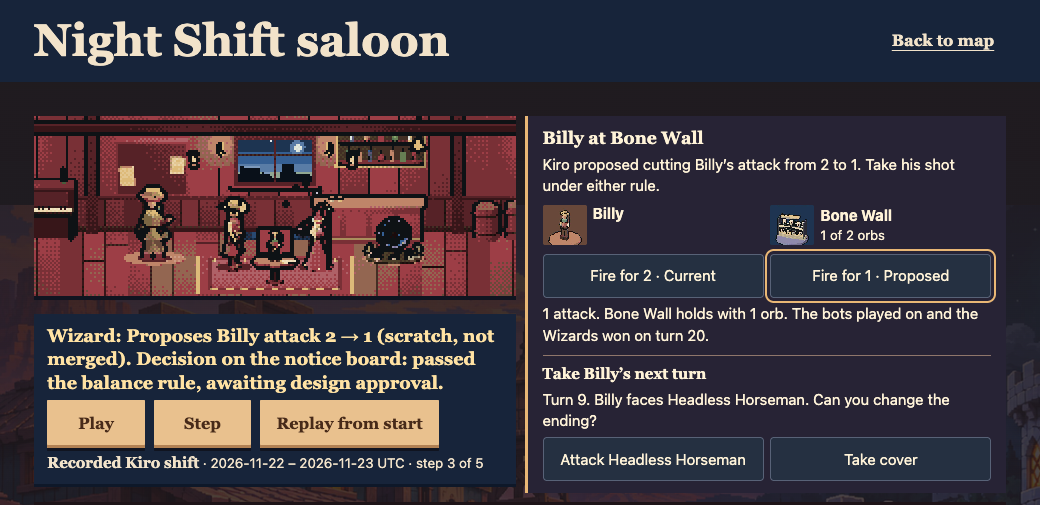
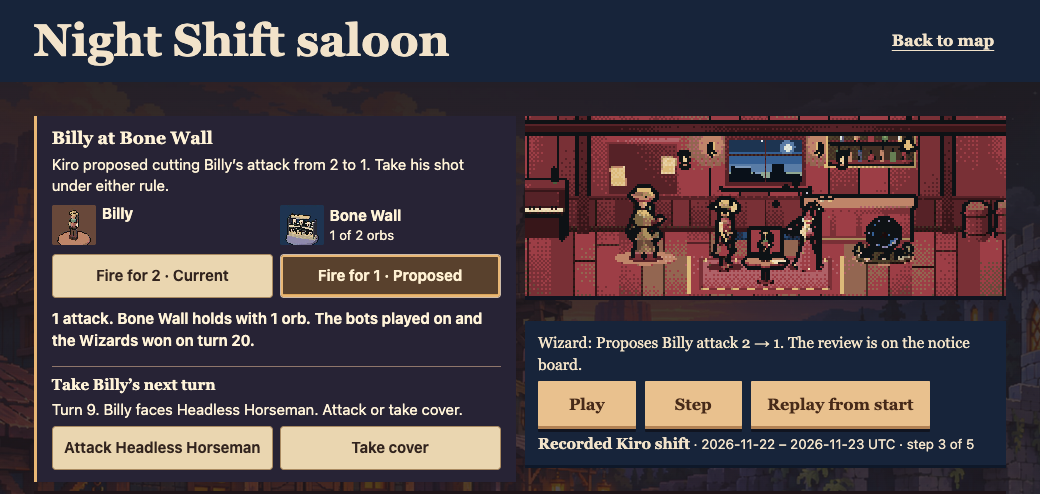
Put the playable table first in the Night Shift Saloon (#227)
* Put Billy’s playable table first in the Night Shift Saloon

* Use the shared Enter key helper for the audit disclosure

diff --git a/src/ui/showdown-3d/night-shift-saloon.js b/src/ui/showdown-3d/night-shift-saloon.js
@@ -77,7 +77,7 @@ export function deed(event) {
   switch (event.kind) {
     case "job": return "Hands out a job";
     case "block": return BLOCK_REASONS[event.rule] ?? "Refuses an unknown request";
-    case "cast": return `Proposes ${cardName(event.card)} ${event.field} ${event.before} → ${event.after} (scratch, not merged)`;
+    case "cast": return `Proposes ${cardName(event.card)} ${event.field} ${event.before} → ${event.after}`;
     case "wanted": return `Posts Wanted: ${wantedPoster(event.boss).name}`;
     case "bell": return "Rings the bell: the stop passed its checks";
     default: return "";
@@ -288,7 +288,7 @@ export function proposalDecision(proposal, {seat = SEAT_AUDIT, protocol = SEAT_P
   return {
     change: `${name} ${field} ${from} → ${to}`,
     status: `Passed the written balance rule and awaits design approval. ${name} has ${at(live)} in this build.`,
-    announce: "Decision on the notice board: passed the balance rule, awaiting design approval.",
+    announce: "The review is on the notice board.",
     rules: [
       `NSB-1, each faction wins ${band[0]}–${band[1]}% of games: Cowboys won ${pct3(before.cowboyShare)}% at ${at(from)} (${where(before.cowboyShare)}) and ${pct3(after.cowboyShare)}% at ${at(to)} (inside).`,
       `NSB-2, the opener's distance from 50% may grow by at most ${tolerance} point${tolerance === 1 ? "" : "s"}: ${pct3(before.seatSkew)} at ${at(from)}, ${pct3(after.seatSkew)} at ${at(to)} (within).`,
@@ -307,10 +307,13 @@ export function decisionHtml(decision) {
   return `<h5>Review of Kiro's proposal: ${esc(d.change)}</h5>
     <dl>
       <div><dt>Decision</dt><dd>${esc(d.status)}</dd></div>
+    </dl>
+    <details class="saloon-audit"><summary>Balance test results</summary>
+    <dl>
       <div><dt>Rule</dt><dd><ul>${d.rules.map((line) => `<li>${esc(line)}</li>`).join("")}</ul></dd></div>
       <div><dt>Receipt</dt><dd>Proposed by Kiro CLI; ${d.duels.toLocaleString("en-US")} recorded Node engine duels at source <code>${esc(shortCommit(d.sourceCommit))}</code>, protocol <code>${esc(d.protocolSha256.slice(0, 7))}</code>. Recheck: <code>${esc(DECISION_RECHECK)}</code>. Notes: <code>${esc(DECISION_NOTES)}</code>.</dd></div>
     </dl>
-    <p class="saloon-decision-note">${esc(DECISION_SEPARATE)}</p>
+    <p class="saloon-decision-note">${esc(DECISION_SEPARATE)}</p></details>
     <a data-billy-replay href="?replay=billy">Replay Billy vs. Bone Wall</a>`;
 }
 
@@ -383,10 +386,10 @@ export function guardStage(createStage, host, onFail = () => {}) {
 }
 
 const ROOM_HTML = `
+  <section class="saloon-billy-table" aria-labelledby="saloon-shot-title" hidden></section>
   <div class="saloon-theater">
     <div class="saloon-theater-host" aria-hidden="true" inert></div>
   </div>
-  <section class="saloon-billy-table" aria-labelledby="saloon-shot-title" hidden></section>
   <div class="saloon-stage" data-actor="">
     <div class="saloon-wall">
       <figure class="saloon-wanted">
@@ -395,12 +398,12 @@ const ROOM_HTML = `
       </figure>
       <section class="saloon-board" aria-label="Notices">
         <div class="saloon-proposal">
-          <h4>Scratch proposal, not merged</h4>
+          <h4>Proposed card change</h4>
           <div class="saloon-target" data-change="none"><div class="saloon-target-art"></div><p class="saloon-target-stat">No proposal yet</p></div>
           <div class="saloon-decision" hidden></div>
         </div>
         <div class="saloon-patches">
-          <h4>Merged on main</h4>
+          <h4>Accepted card changes</h4>
           <ul></ul>
         </div>
       </section>
@@ -527,7 +530,7 @@ export function mountNightShiftSaloon({content, recording, portrait = () => null
     content.dataset.view = view;
     theater.hidden = view !== "3d";
     const focused = controls.contains(document.activeElement) ? document.activeElement : null;
-    if (view === "3d") billyTable.after(controls); else stage.after(controls);
+    if (view === "3d") theater.after(controls); else stage.after(controls);
     if (focused && document.activeElement !== focused) focused.focus({preventScroll: true});
   }
   function dropStage() {

diff --git a/src/ui/showdown-3d/outpost.css b/src/ui/showdown-3d/outpost.css
@@ -467,13 +467,13 @@ body:has(.camp-outpost[open], .builder-inspect[open]) {
     grid-template-columns: minmax(0, 1fr) minmax(0, 1fr);
   }
   .saloon-room:has(.saloon-billy-table:not([hidden])) > * { grid-column: 1 / -1; }
-  .saloon-room[data-view="3d"]:has(.saloon-billy-table:not([hidden])) > .saloon-theater { grid-area: 1 / 1; align-self: start; }
+  .saloon-room[data-view="3d"]:has(.saloon-billy-table:not([hidden])) > .saloon-theater { grid-area: 1 / 2; align-self: start; }
   .saloon-room[data-view="3d"]:has(.saloon-billy-table:not([hidden])) > .saloon-controls {
-    grid-area: 2 / 1;
+    grid-area: 2 / 2;
     grid-template-columns: minmax(0, 1fr);
     align-self: start;
   }
-  .saloon-room[data-view="3d"] > .saloon-billy-table { grid-area: 1 / 2 / span 2 / 3; align-self: start; }
+  .saloon-room[data-view="3d"] > .saloon-billy-table { grid-area: 1 / 1 / span 2 / 2; align-self: start; }
 }
 @media (max-width: 639px) and (max-height: 500px) {
   .saloon-billy-table { order: -1; }
@@ -972,8 +972,8 @@ body:has(.camp-outpost[open], .builder-inspect[open]) {
   grid-column: 1 / -1;
   order: -1;
   min-height: 1.3em;
-  font: 700 1.2rem/1.3 var(--frontier-display);
-  color: #ffe2a3;
+  font: 500 1.03rem/1.4 var(--frontier-display);
+  color: #f4e4c8;
 }
 .saloon-room[data-view="3d"] .saloon-mode {
   order: 1;
@@ -1019,11 +1019,7 @@ body:has(.camp-outpost[open], .builder-inspect[open]) {
   transform: none;
   animation: none;
 }
-.saloon-room[data-view="3d"] .saloon-actor-ambient {
-  overflow: hidden;
-  white-space: nowrap;
-  text-overflow: ellipsis;
-}
+.saloon-room[data-view="3d"] .saloon-actor-ambient { overflow-wrap: anywhere; }
 .saloon-history time,
 .ledger-night-shift time {
   color: var(--frontier-brass);
@@ -1141,4 +1137,28 @@ body:has(.camp-outpost[open], .builder-inspect[open]) {
     text-decoration: underline;
     text-underline-offset: 0.2em;
   }
+}
+
+.saloon-shot-actions button {
+  border: 1px solid #a98a61;
+  background: #ead6b0;
+  color: #32241e;
+  font-weight: 650;
+}
+.saloon-shot-actions button[aria-pressed="true"] {
+  background: #59412d;
+  color: #fff1d3;
+  box-shadow: inset 0 -3px #dba65b;
+}
+.saloon-shot-actions button:focus-visible { outline: 3px solid #fff1d3; outline-offset: 2px; }
+.saloon-room[data-view="3d"] .saloon-proposal:has(.saloon-decision:not([hidden])) > .saloon-target { display: none; }
+.saloon-shot-result:not(:empty), .saloon-reply-result:not(:empty) { padding-block: .35rem; font-weight: 650; }
+
+.saloon-audit summary { cursor: pointer; padding-block: .5rem; text-decoration: underline; }
+.saloon-room[data-view="3d"] .saloon-wanted:has(.saloon-wanted-art:empty) { display: none; }
+@media (min-width: 761px) {
+  .saloon-room[data-view="3d"] .saloon-wall:has(.saloon-wanted-art:empty) { grid-template-columns: minmax(0, 1fr) auto; }
+}
+@media (max-width: 760px) {
+  .saloon-room[data-view="3d"] .saloon-wall:has(.saloon-wanted-art:empty) .saloon-board { grid-row: auto; }
 }

diff --git a/tests/match/night-shift-camp.test.js b/tests/match/night-shift-camp.test.js
@@ -152,7 +152,7 @@ test("refusals name what each rule refuses; only the bell speaks of a stop passi
   for (const rule of Object.keys(BLOCK_REASONS)) assert.doesNotMatch(refusal(rule), /stop|block/i);
   assert.doesNotMatch(ledgerSectionHtml(), /block|stop/i);
   assert.match(describe({kind: "bell"}), /stop passed/);
-  assert.match(describe({kind: "cast", card: "wizard-imp", field: "attack", before: 2, after: 1}), /scratch, not merged/);
+  assert.match(describe({kind: "cast", card: "wizard-imp", field: "attack", before: 2, after: 1}), /Proposes Imp attack 2 → 1/);
   assert.match(describe(patch("p", 1, "wizard-imp", "attack", 2, 1, "c".repeat(40))), /merged on main in ccccccc/);
   assert.doesNotMatch(deed({kind: "job"}), /Singularity/, "the actor's own line does not repeat its name");
   assert.equal(RECORDED_LABEL, "Recorded Kiro shift");

diff --git a/tests/match/saloon-showcases.test.js b/tests/match/saloon-showcases.test.js
@@ -284,7 +284,7 @@ test("saloon decision: the status line and the opening caption lead to the decis
   const cast = recorded.find((event) => event.kind === "cast");
   assert.equal(recorded.indexOf(cast), 2);
   assert.equal(eventCaption(cast),
-    "Wizard: Proposes Billy attack 2 → 1 (scratch, not merged). Decision on the notice board: passed the balance rule, awaiting design approval.");
+    "Wizard: Proposes Billy attack 2 → 1. The review is on the notice board.");
   assert.equal(eventCaption(recorded[0]), "Singularity: Hands out a job", "other events keep their plain line");
   assert.equal(idleCaption(recorded), `${IDLE_CAPTION} Step 3 shows Kiro's card proposal and its decision.`);
   assert.equal(idleCaption(recorded.filter((event) => event.kind !== "cast")), IDLE_CAPTION);

diff --git a/src/ui/saloon-billy-table.js b/src/ui/saloon-billy-table.js
@@ -112,7 +112,7 @@ export function mountBillyTable(root, table, portrait) {
     replyResult.textContent = "";
     for (const move of moves) move.setAttribute("aria-pressed", "false");
     if (choice) {
-      reply.querySelector(".saloon-reply-prompt").textContent = `Turn ${choice.turn}. Billy faces ${choice.opponent}. Can you change the ending?`;
+      reply.querySelector(".saloon-reply-prompt").textContent = `Turn ${choice.turn}. Billy faces ${choice.opponent}. Attack or take cover.`;
       reply.querySelector('[data-reply="attack"]').textContent = `Attack ${choice.opponent}`;
     }
   });
